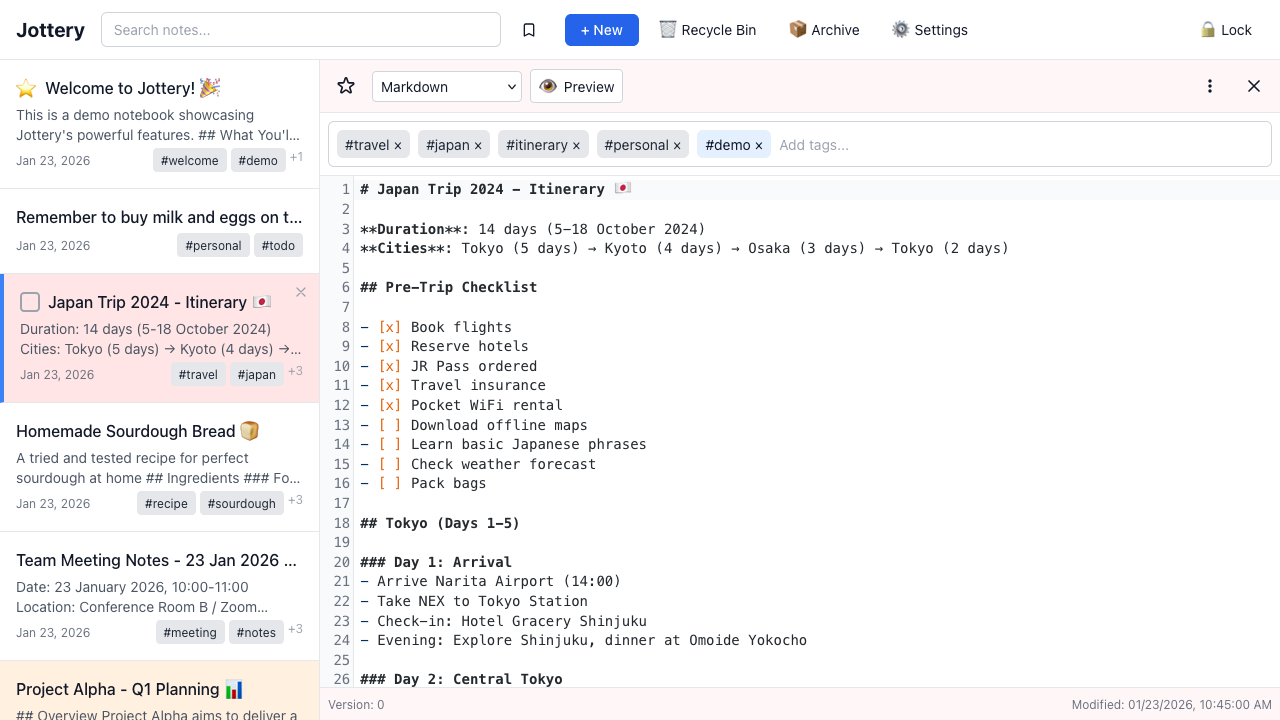
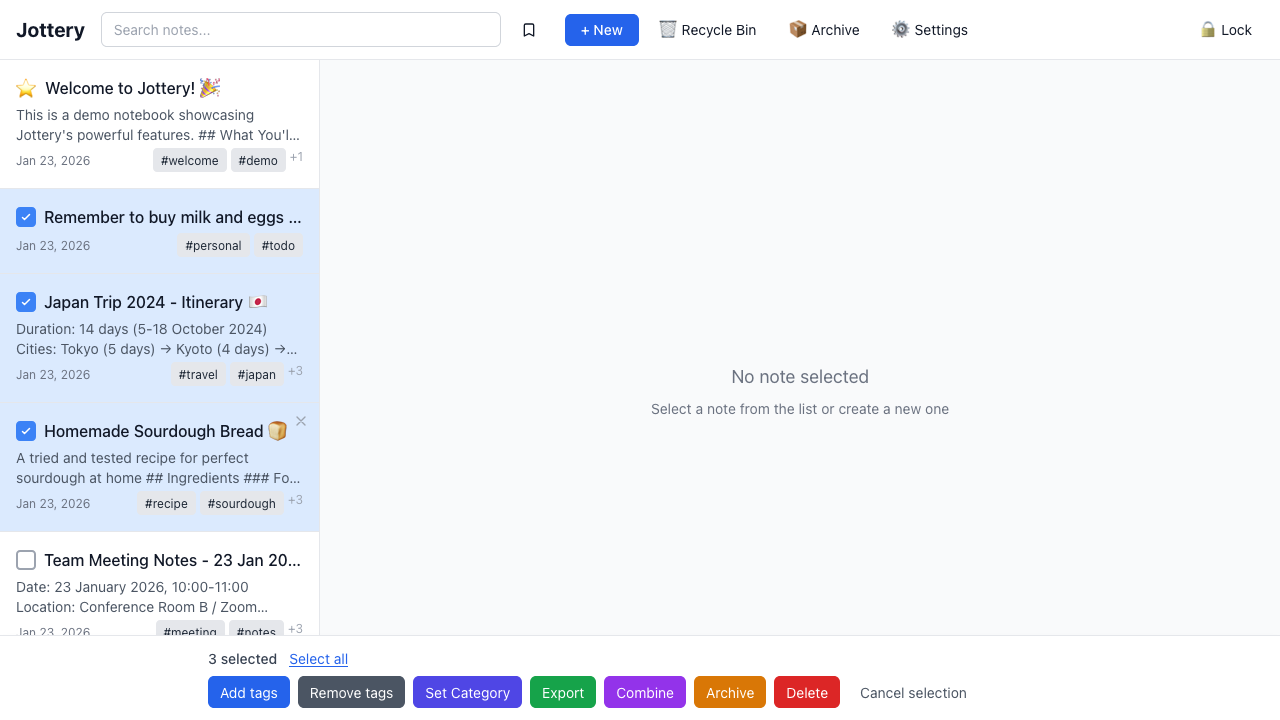
feat: Add multi-select bulk operations screenshots for light and dark modes
- Fix multi-select screenshot test to properly select notes
- Use Cmd/Meta modifier on Mac for multi-select (Ctrl+click)
- Skip pinned notes (Welcome note) when selecting
- Generate both light and dark mode multi-select screenshots
- Show 3 selected notes with bulk operations toolbar visible

The test now:
- Clicks notes 1-3 (skipping pinned Welcome note at index 0)
- Uses button.note-list-item selector for reliable clicking
- Waits for selection state to apply and toolbar to appear
- Captures toolbar at bottom showing selection count and actions

Screenshots show:
- 3 notes highlighted in blue (light: bg-blue-100, dark: bg-blue-900/40)
- Bulk operations toolbar at bottom
- Selection count and action buttons (Add Tags, Remove Tags, etc.)

diff --git a/e2e/screenshots.spec.ts b/e2e/screenshots.spec.ts
@@ -247,28 +247,20 @@ test.describe('Landing Page Screenshots - Light Mode', () => {
     // Wait for theme to fully apply
     await page.waitForTimeout(1000);
 
-    // Select first 3 notes using checkboxes or Ctrl+Click
-    const noteListItems = page.locator('.note-list-item, [role="listitem"]');
+    // Select 3 notes using Cmd/Ctrl+Click (skip first note as it's pinned)
+    const noteListItems = page.locator('button.note-list-item');
     const noteCount = await noteListItems.count();
 
-    // Try checkboxes first
-    const checkboxes = page.locator('.note-list-item input[type="checkbox"], [role="listitem"] input[type="checkbox"]');
-    const hasCheckboxes = await checkboxes.count() > 0;
+    // Use Meta (Cmd) on Mac, Control on other platforms
+    const modifier = process.platform === 'darwin' ? 'Meta' : 'Control';
 
-    if (hasCheckboxes) {
-      // Click first 3 checkboxes
-      for (let i = 0; i < Math.min(3, await checkboxes.count()); i++) {
-        await checkboxes.nth(i).check();
-        await page.waitForTimeout(200);
-      }
-    } else {
-      // Use Ctrl+Click
-      for (let i = 0; i < Math.min(3, noteCount); i++) {
-        await noteListItems.nth(i).click({ modifiers: ['Control'] });
-        await page.waitForTimeout(200);
-      }
+    // Click notes 1-3 (skip index 0 as Welcome note is pinned)
+    for (let i = 1; i <= Math.min(3, noteCount - 1); i++) {
+      await noteListItems.nth(i).click({ modifiers: [modifier] });
+      await page.waitForTimeout(400);
     }
 
+    // Wait for toolbar to appear and settle
     await page.waitForTimeout(1000);
 
     await page.screenshot({
@@ -490,5 +482,33 @@ test.describe('Landing Page Screenshots - Dark Mode', () => {
     });
 
     console.log('✓ Screenshot saved: screenshots/02-rich-editor-dark.png');
+  });
+
+  test('03-dark. Multi-Select - Bulk Operations', async ({ page }) => {
+    // Wait for theme to fully apply
+    await page.waitForTimeout(1000);
+
+    // Select 3 notes using Cmd/Ctrl+Click (skip first note as it's pinned)
+    const noteListItems = page.locator('button.note-list-item');
+    const noteCount = await noteListItems.count();
+
+    // Use Meta (Cmd) on Mac, Control on other platforms
+    const modifier = process.platform === 'darwin' ? 'Meta' : 'Control';
+
+    // Click notes 1-3 (skip index 0 as Welcome note is pinned)
+    for (let i = 1; i <= Math.min(3, noteCount - 1); i++) {
+      await noteListItems.nth(i).click({ modifiers: [modifier] });
+      await page.waitForTimeout(400);
+    }
+
+    // Wait for toolbar to appear and settle
+    await page.waitForTimeout(1000);
+
+    await page.screenshot({
+      path: 'screenshots/03-multi-select-dark.png',
+      fullPage: false,
+    });
+
+    console.log('✓ Screenshot saved: screenshots/03-multi-select-dark.png');
   });
 });
